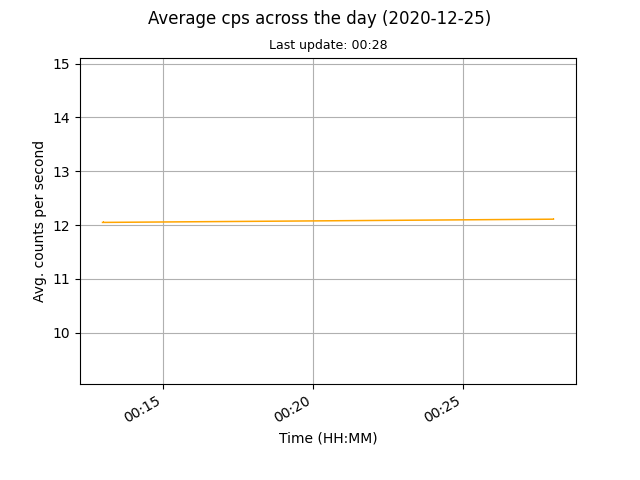
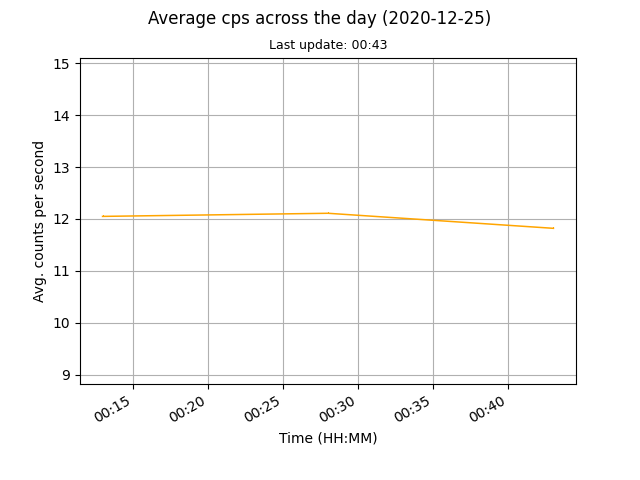
auto data update

diff --git a/docs/index.html b/docs/index.html
@@ -28,8 +28,8 @@
 	<h1>OpenSC Data Webarchive</h1>
 	<h1>Longterm measurements done with the Open Scintillation Counter. Location: Vienna, Austria.</h1>
 	
-	<h2>Current cps: 12.11</h2>
-	<h2>Last update: 2020-12-25, 00:28</h2>
+	<h2>Current cps: 11.82</h2>
+	<h2>Last update: 2020-12-25, 00:43</h2>
 
 	<p><img src="images/monthly.png" alt="Mothly avg cps data"><img src="images/daily.png" alt="Daily avg cps data"></p>
 
